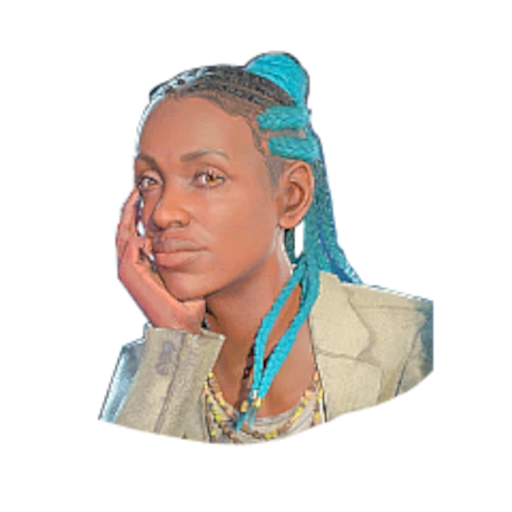
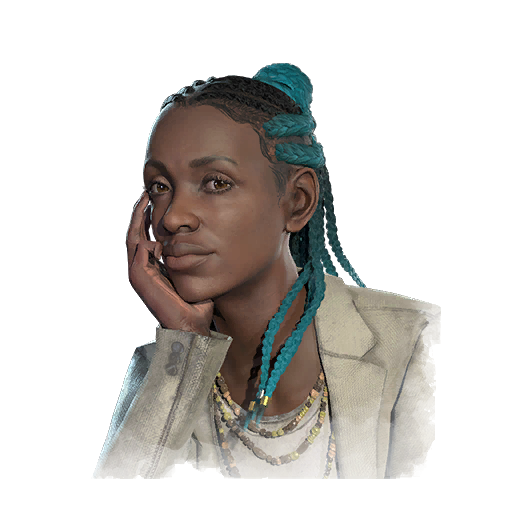
Added new Survivors
Rick Grimes
Michonne Grimes

Added 6 new Survivor Perks

Apocalyptic Ingenuity
Come And Get Me
Conviction
Last Stand
Teamwork: Throw Down
Teamwork: Toughen Up

Updated Image for Orela Rose to meet standards of other characters.

diff --git a/DBDRandomiser/SelectionWindow.xaml b/DBDRandomiser/SelectionWindow.xaml
@@ -3,7 +3,7 @@
         xmlns="http://schemas.microsoft.com/winfx/2006/xaml/presentation"
         xmlns:x="http://schemas.microsoft.com/winfx/2006/xaml"
         ResizeMode="NoResize"
-        Title="Select Survivors and Killers" Height="600" Width="1000" WindowStartupLocation="CenterOwner">
+        Title="Select Survivors and Killers" Height="650" Width="1010" WindowStartupLocation="CenterOwner">
     <Grid Margin="10">
         <Grid.ColumnDefinitions>
             <ColumnDefinition Width="*" />
@@ -15,9 +15,10 @@
             <ColumnDefinition Width="*" />
         </Grid.ColumnDefinitions>
         <Grid.RowDefinitions>
-            <RowDefinition Height="Auto"/>
-            <RowDefinition Height="*"/>
-            <RowDefinition Height="Auto"/>
+            <RowDefinition Height="20"/>
+            <RowDefinition Height="500"/>
+            <RowDefinition Height="35"/>
+            <RowDefinition Height="35"/>
         </Grid.RowDefinitions>
 
         <TextBlock Text="Survivors" FontWeight="Bold" Grid.Column="0" Grid.Row="0" Margin="0,0,0,5" />
@@ -30,7 +31,27 @@
         <ListBox x:Name="SurvivorPerksListBox" Grid.Column="4" Grid.Row="1" SelectionMode="Multiple" BorderThickness="2"/>
         <ListBox x:Name="KillerPerksListBox" Grid.Column="6" Grid.Row="1" SelectionMode="Multiple" BorderThickness="2"/>
 
-        <StackPanel Grid.Column="0" Grid.ColumnSpan="3" Grid.Row="2" Orientation="Horizontal" HorizontalAlignment="Right" Margin="0,10,0,0">
+        <StackPanel Grid.Column="0" Grid.Row="2" Orientation="Horizontal" HorizontalAlignment="Center" Margin="0,10,0,0">
+            <Button Content="Select All" Width="105" Margin="0,0,10,0" Click="SelectAllSurvivors_Click"/>
+            <Button Content="Remove All" Width="105" Click="RemoveAllSurvivors_Click"/>
+        </StackPanel>
+
+        <StackPanel Grid.Column="2" Grid.Row="2" Orientation="Horizontal" HorizontalAlignment="Center" Margin="0,10,0,0">
+            <Button Content="Select All" Width="105" Margin="0,0,10,0" Click="SelectAllKillers_Click"/>
+            <Button Content="Remove All" Width="105" Click="RemoveAllKillers_Click"/>
+        </StackPanel>
+
+        <StackPanel Grid.Column="4" Grid.Row="2" Orientation="Horizontal" HorizontalAlignment="Center" Margin="0,10,0,0">
+            <Button Content="Select All" Width="105" Margin="0,0,10,0" Click="SelectAllSurvivorPerks_Click"/>
+            <Button Content="Remove All" Width="105" Click="RemoveAllSurvivorPerks_Click"/>
+        </StackPanel>
+
+        <StackPanel Grid.Column="6" Grid.Row="2" Orientation="Horizontal" HorizontalAlignment="Center" Margin="0,10,0,0">
+            <Button Content="Select All" Width="105" Margin="0,0,10,0" Click="SelectAllKillerPerks_Click"/>
+            <Button Content="Remove All" Width="105" Click="RemoveAllKillerPerks_Click"/>
+        </StackPanel>
+
+        <StackPanel Grid.Column="0" Grid.ColumnSpan="7" Grid.Row="3" Orientation="Horizontal" HorizontalAlignment="Center" Margin="0,10,0,0">
             <Button Content="Save Selections" Width="130" Margin="0,0,10,0" Click="OkButton_Click"/>
             <Button Content="Cancel" Width="130" Click="CancelButton_Click"/>
         </StackPanel>

diff --git a/DBDRandomiser/MainWindow.xaml b/DBDRandomiser/MainWindow.xaml
@@ -54,10 +54,22 @@
         </Button>  
   
         <!-- Buttons (Placed at Bottom) -->  
-        <StackPanel Orientation="Horizontal" HorizontalAlignment="Center" VerticalAlignment="Bottom">  
-            <Button Content="Select Random Killer" Click="SelectKiller_Click" Width="200" Background="OrangeRed" Foreground="White" FontWeight="Bold"/>  
-            <Button Content="Reset" Click="ResetScreen_Click" Width="100" Background="#AAAAAA" Foreground="Black" FontWeight="Bold"/>  
-            <Button Content="Select Random Survivor" Click="SelectSurvivor_Click" Width="200" Background="CornflowerBlue" Foreground="White" FontWeight="Bold"/>  
+        <StackPanel Orientation="Horizontal" HorizontalAlignment="Center" VerticalAlignment="Bottom">
+            <Button Click="SelectKiller_Click" Width="200" Background="OrangeRed" Foreground="White" FontWeight="Bold" >
+                <StackPanel Orientation="Horizontal">
+                    <Image Source="/Icons/KillerIcon.png" Width="20" Height="20" ></Image>
+                    <TextBlock Padding="5,0,0,0" Height="20">Select Random Killer</TextBlock>
+                </StackPanel>
+            </Button>
+            <Button Click="ResetScreen_Click" Width="100" Background="#AAAAAA" Foreground="Black" FontWeight="Bold">
+                <TextBlock Padding="0,0,0,0" Height="20">Reset</TextBlock>
+            </Button>
+            <Button Click="SelectSurvivor_Click" Width="200" Background="CornflowerBlue" Foreground="White" FontWeight="Bold">
+                <StackPanel Orientation="Horizontal">
+                    <TextBlock Padding="0,0,5,0" Height="20">Select Random Survivor</TextBlock>
+                    <Image Source="/Icons/Survivor_Icon.png" Width="20" Height="20" ></Image>
+                </StackPanel>
+            </Button>  
         </StackPanel>  
     </Grid>  
 </Window>

diff --git a/DBDRandomiser/SelectionWindow.xaml.cs b/DBDRandomiser/SelectionWindow.xaml.cs
@@ -11,11 +11,18 @@ namespace DBDRandomiser
         public List<string> selectedSurvivorPerks { get; private set; }
         public List<string> selectedKillerPerks { get; private set; }
 
-        public SelectionWindow(List<string> allSurvivors, List<string> allKillers, List<string>? selectedSurvivors = null, List<string>? selectedKillers = null,
-                               List<string>? allSurvivorPerks = null, List<string>? allKillerPerks = null, List<string>? selectedSurvivorPerks = null, 
-                               List<string>? selectedKillerPerks = null)
+        public SelectionWindow(
+            List<string> allSurvivors, List<string> allKillers,
+            List<string>? selectedSurvivors = null, List<string>? selectedKillers = null,
+            List<string>? allSurvivorPerks = null, List<string>? allKillerPerks = null,
+            List<string>? selectedSurvivorPerks = null, List<string>? selectedKillerPerks = null)
         {
             InitializeComponent();
+
+            selectedSurvivors = selectedSurvivors ?? new List<string>();
+            selectedKillers = selectedKillers ?? new List<string>();
+            selectedSurvivorPerks = selectedSurvivorPerks ?? new List<string>();
+            selectedKillerPerks = selectedKillerPerks ?? new List<string>();
 
             SurvivorsListBox.ItemsSource = allSurvivors;
             KillersListBox.ItemsSource = allKillers;
@@ -23,21 +30,52 @@ namespace DBDRandomiser
             KillerPerksListBox.ItemsSource = allKillerPerks ?? new List<string>();
 
             // Select previously selected items, or all if none provided
-            if (selectedSurvivors != null && selectedSurvivors.Count > 0)
+            if (selectedSurvivors.Count > 0)
                 foreach (var s in selectedSurvivors) SurvivorsListBox.SelectedItems.Add(s);
             else SurvivorsListBox.SelectAll();
 
-            if (selectedKillers != null && selectedKillers.Count > 0)
+            if (selectedKillers.Count > 0)
                 foreach (var k in selectedKillers) KillersListBox.SelectedItems.Add(k);
             else KillersListBox.SelectAll();
 
-            if (selectedSurvivorPerks != null && selectedSurvivorPerks.Count > 0)
+            if (selectedSurvivorPerks.Count > 0)
                 foreach (var p in selectedSurvivorPerks) SurvivorPerksListBox.SelectedItems.Add(p);
             else SurvivorPerksListBox.SelectAll();
 
-            if (selectedKillerPerks != null && selectedKillerPerks.Count > 0)
+            if (selectedKillerPerks.Count > 0)
                 foreach (var p in selectedKillerPerks) KillerPerksListBox.SelectedItems.Add(p);
             else KillerPerksListBox.SelectAll();
+        }
+
+        private void Grid_Items_Mass_Selection(string selectionType)
+        {
+            switch (selectionType)
+            {
+                case "SelectSurvivors":
+                    SurvivorsListBox.SelectAll();
+                    break;
+                case "UnselectSurvivors":
+                    SurvivorsListBox.UnselectAll();
+                    break;
+                case "SelectKillers":
+                    KillersListBox.SelectAll();
+                    break;
+                case "UnselectKillers":
+                    KillersListBox.UnselectAll();
+                    break;
+                case "SelectSurvivorPerks":
+                    SurvivorPerksListBox.SelectAll();
+                    break;
+                case "UnselectSurvivorPerks":
+                    SurvivorPerksListBox.UnselectAll();
+                    break;
+                case "SelectKillerPerks":
+                    KillerPerksListBox.SelectAll();
+                    break;
+                case "UnselectKillerPerks":
+                    KillerPerksListBox.UnselectAll();
+                    break;
+            }
         }
 
         private void OkButton_Click(object sender, RoutedEventArgs e)
@@ -61,10 +99,51 @@ namespace DBDRandomiser
             DialogResult = true;
             Close();
         }
+
         private void CancelButton_Click(object sender, RoutedEventArgs e)
         {
             this.DialogResult = false;
             this.Close();
+        }
+
+        private void SelectAllSurvivors_Click(object sender, RoutedEventArgs e)
+        {
+            Grid_Items_Mass_Selection("SelectSurvivors");
+        }
+
+        private void RemoveAllSurvivors_Click(object sender, RoutedEventArgs e)
+        {
+            Grid_Items_Mass_Selection("UnselectSurvivors");
+        }
+
+        private void SelectAllKillers_Click(object sender, RoutedEventArgs e)
+        {
+            Grid_Items_Mass_Selection("SelectKillers");
+        }
+
+        private void RemoveAllKillers_Click(object sender, RoutedEventArgs e)
+        {
+            Grid_Items_Mass_Selection("UnselectKillers");
+        }
+
+        private void SelectAllSurvivorPerks_Click(object sender, RoutedEventArgs e)
+        {
+            Grid_Items_Mass_Selection("SelectSurvivorPerks");
+        }
+
+        private void RemoveAllSurvivorPerks_Click(object sender, RoutedEventArgs e)
+        {
+            Grid_Items_Mass_Selection("UnselectSurvivorPerks");
+        }
+
+        private void SelectAllKillerPerks_Click(object sender, RoutedEventArgs e)
+        {
+            Grid_Items_Mass_Selection("SelectKillerPerks");
+        }
+
+        private void RemoveAllKillerPerks_Click(object sender, RoutedEventArgs e)
+        {
+            Grid_Items_Mass_Selection("UnselectKillerPerks");
         }
     }
 }

diff --git a/DBDRandomiser/MainWindow.xaml.cs b/DBDRandomiser/MainWindow.xaml.cs
@@ -113,7 +113,7 @@ namespace DBDRandomiser
             CharacterImage.Visibility = Visibility.Visible;
 
             // Trigger the FadeInStoryboard for each element
-            Storyboard fadeInStoryboard = this.Resources["FadeInStoryboard"] as Storyboard;
+            Storyboard? fadeInStoryboard = this.Resources["FadeInStoryboard"] as Storyboard;
 
             if (fadeInStoryboard != null)
             {
@@ -182,8 +182,11 @@ namespace DBDRandomiser
 
             if (IncludePerksCheckBox.IsChecked == true)
             {
-                // Shuffle the perk list and pick the first four unique perks
-                List<string> shuffledPerks = killerPerks.OrderBy(x => rand.Next()).Distinct().ToList();
+                // Use active killer perks if available, otherwise use the default killer perks
+                List<string> killerPerkPool = (activeKillerPerks != null && activeKillerPerks.Count > 0)
+                    ? activeKillerPerks
+                    : killerPerks.ToList();
+                List<string> shuffledPerks = killerPerkPool.OrderBy(x => rand.Next()).Distinct().ToList();
                 string[] selectedPerks = shuffledPerks.Take(4).ToArray();
 
                 // Initialize the index and timer
@@ -212,7 +215,7 @@ namespace DBDRandomiser
                     };
 
                     // Add the perk image
-                    if (killerPerkImages.TryGetValue(perk, out string perkImageUri))
+                    if (killerPerkImages.TryGetValue(perk, out var perkImageUri) && perkImageUri != null)
                     {
                         try
                         {
@@ -228,7 +231,6 @@ namespace DBDRandomiser
                         {
                             MessageBox.Show($"Error loading image for perk '{perk}': {ex.Message}");
                         }
-
                     }
 
                     // Add the perk text
@@ -281,8 +283,8 @@ namespace DBDRandomiser
             CharacterImage.Visibility = Visibility.Visible;
 
             // Trigger the FadeInStoryboard for each element
-            Storyboard fadeInStoryboard = this.Resources["FadeInStoryboard"] as Storyboard;
-            Storyboard fadeOutStoryboard = this.Resources["FadeOutStoryboard"] as Storyboard;
+            Storyboard? fadeInStoryboard = this.Resources["FadeInStoryboard"] as Storyboard;
+            Storyboard? fadeOutStoryboard = this.Resources["FadeOutStoryboard"] as Storyboard;
 
             if (fadeInStoryboard != null)
             {
@@ -299,7 +301,7 @@ namespace DBDRandomiser
                 {
                     background_image2.Opacity = 0;
                 }
-                else
+                else if (fadeOutStoryboard != null)
                 {
                     Storyboard.SetTarget(fadeOutStoryboard, background_image2);
                     fadeOutStoryboard.Begin();
@@ -352,8 +354,11 @@ namespace DBDRandomiser
 
             if (IncludePerksCheckBox.IsChecked == true)
             {
-                // Shuffle the perk list and pick the first four unique perks
-                List<string> shuffledPerks = survivorPerks.OrderBy(x => rand.Next()).Distinct().ToList();
+                // Use active survivor perks if available, otherwise use the default survivor perks
+                List<string> survivorPerkPool = (activeSurvivorPerks != null && activeSurvivorPerks.Count > 0)
+                    ? activeSurvivorPerks
+                    : survivorPerks.ToList();
+                List<string> shuffledPerks = survivorPerkPool.OrderBy(x => rand.Next()).Distinct().ToList();
                 string[] selectedPerks = shuffledPerks.Take(4).ToArray();
 
                 // Initialize the index and timer
@@ -382,7 +387,7 @@ namespace DBDRandomiser
                     };
 
                     // Add the perk image
-                    if (survivorPerkImages.TryGetValue(perk, out string perkImageUri))
+                    if (survivorPerkImages.TryGetValue(perk, out var perkImageUri) && perkImageUri != null)
                     {
                         try
                         {
@@ -398,7 +403,6 @@ namespace DBDRandomiser
                         {
                             MessageBox.Show($"Error loading image for perk '{perk}': {ex.Message}");
                         }
-
                     }
 
                     // Add the perk text
@@ -434,7 +438,7 @@ namespace DBDRandomiser
         private void ResetScreen_Click(object sender, RoutedEventArgs e)
         {
             // Retrieve the fade-out Storyboard from resources
-            Storyboard fadeOutStoryboard = this.Resources["FadeOutStoryboard"] as Storyboard;
+            Storyboard? fadeOutStoryboard = this.Resources["FadeOutStoryboard"] as Storyboard;
 
             if (fadeOutStoryboard != null)
             {

diff --git a/DBDRandomiser/PerkImages.cs b/DBDRandomiser/PerkImages.cs
@@ -155,6 +155,7 @@ namespace DBDRandomiser
             {"Aftercare",                                                   "pack://application:,,,/perk_images/survivor_perks/Aftercare.png"},
             {"Alert",                                                       "pack://application:,,,/perk_images/survivor_perks/Alert.png"},
             {"Any Means Necessary",                                         "pack://application:,,,/perk_images/survivor_perks/Any_Means_Necessary.png"},
+            {"Apocalyptic Ingenuity",                                         "pack://application:,,,/perk_images/survivor_perks/Apocalyptic_Ingenuity.png"},
             {"Appraisal",                                                   "pack://application:,,,/perk_images/survivor_perks/Appraisal.png"},
             {"Autodidact",                                                  "pack://application:,,,/perk_images/survivor_perks/Autodidact.png"},
             {"Babysitter",                                                  "pack://application:,,,/perk_images/survivor_perks/Babysitter.png"},
@@ -186,6 +187,8 @@ namespace DBDRandomiser
             {"Chemical Trap",                                               "pack://application:,,,/perk_images/survivor_perks/Chemical_Trap.png"},
             {"Clairvoyance",                                                "pack://application:,,,/perk_images/survivor_perks/Clairvoyance.png"},
             {"Clean Break",                                                 "pack://application:,,,/perk_images/survivor_perks/Clean_Break.png"},
+            {"Come And Get Me",                                             "pack://application:,,,/perk_images/survivor_perks/Come_And_Get_Me.png"},
+            {"Conviction",                                                  "pack://application:,,,/perk_images/survivor_perks/Conviction.png"},
             {"Corrective Action",                                           "pack://application:,,,/perk_images/survivor_perks/Corrective_Action.png"},
             {"Counterforce",                                                "pack://application:,,,/perk_images/survivor_perks/Counterforce.png"},
             {"Cut Loose",                                                   "pack://application:,,,/perk_images/survivor_perks/Cut_Loose.png"},
@@ -226,6 +229,7 @@ namespace DBDRandomiser
             {"Invocation: Weaving Spiders",                                 "pack://application:,,,/perk_images/survivor_perks/Invocation_Weaving_Spiders.png"},
             {"Iron Will",                                                   "pack://application:,,,/perk_images/survivor_perks/Iron_Will.png"},
             {"Kindred",                                                     "pack://application:,,,/perk_images/survivor_perks/Kindred.png"},
+            {"Last Stand",                                                  "pack://application:,,,/perk_images/survivor_perks/Last_Stand.png"},
             {"Leader",                                                      "pack://application:,,,/perk_images/survivor_perks/Leader.png"},
             {"Left Behind",                                                 "pack://application:,,,/perk_images/survivor_perks/Left_Behind.png"},
             {"Light-Footed",                                                "pack://application:,,,/perk_images/survivor_perks/Light-Footed.png"},
@@ -287,6 +291,8 @@ namespace DBDRandomiser
             {"Strength in Shadows",                                         "pack://application:,,,/perk_images/survivor_perks/Strength_in_Shadows.png"},
             {"Teamwork: Collective Stealth",                                "pack://application:,,,/perk_images/survivor_perks/Teamwork_Collective_Stealth.png"},
             {"Teamwork: Power of Two",                                      "pack://application:,,,/perk_images/survivor_perks/Teamwork_Power_of_Two.png"},
+            {"Teamwork: Throw Down",                                        "pack://application:,,,/perk_images/survivor_perks/Teamwork_Throw_Down.png"},
+            {"Teamwork: Toughen Up",                                      "pack://application:,,,/perk_images/survivor_perks/Teamwork_Toughen_Up.png"},
             {"Technician",                                                  "pack://application:,,,/perk_images/survivor_perks/Technician.png"},
             {"Tenacity",                                                    "pack://application:,,,/perk_images/survivor_perks/Tenacity.png"},
             {"This Is Not Happening",                                       "pack://application:,,,/perk_images/survivor_perks/This_Is_Not_Happening.png"},

diff --git a/DBDRandomiser/SurvivorPerks.cs b/DBDRandomiser/SurvivorPerks.cs
@@ -9,21 +9,21 @@ namespace DBDRandomiser
     public static class SurvivorPerks
     {
         public static readonly string[] List = [
-            "Ace in the Hole","Adrenaline","Aftercare","Alert","Any Means Necessary","Appraisal","Autodidact","Babysitter","Background Player","Balanced Landing",
+            "Ace in the Hole","Adrenaline","Aftercare","Alert","Any Means Necessary","Apocalyptic Ingenuity","Appraisal","Autodidact","Babysitter","Background Player","Balanced Landing",
             "Bardic Inspiration","Better than New","Better Together","Bite the Bullet","Blast Mine","Blood Pact","Blood Rush","Boil Over","Bond","Boon: Circle of Healing",
             "Boon: Dark Theory","Boon: Exponential","Boon: Illumination","Boon: Shadow Step","Borrowed Time","Botany Knowledge","Breakdown","Breakout","Buckle Up",
-            "Built to Last","Calm Spirit","Camaraderie","Champion of Light","Chemical Trap","Clairvoyance","Clean Break","Corrective Action","Counterforce","Cut Loose",
-            "Déjà Vu","Dance With Me","Dark Sense","Dead Hard","Deadline","Deception","Decisive Strike","Deliverance","Desperate Measures","Detective's Hunch","Distortion",
+            "Built to Last","Calm Spirit","Camaraderie","Champion of Light","Chemical Trap","Clairvoyance","Clean Break","Come And Get Me","Conviction","Corrective Action","Counterforce",
+            "Cut Loose","Déjà Vu","Dance With Me","Dark Sense","Dead Hard","Deadline","Deception","Decisive Strike","Deliverance","Desperate Measures","Detective's Hunch","Distortion",
             "Diversion","Do No Harm","Dramaturgy","Duty of Care","Empathic Connection","Empathy","Exultation","Eyes of Belmont","Fast Track","Finesse","Fixated","Flashbang",
             "Flip-Flop","Fogwise","For the People","Friendly Competition","Hardened","Head On","Hope","Hyperfocus","Inner Focus","Inner Strength",
-            "Invocation: Treacherous Crows","Invocation: Weaving Spiders","Iron Will","Kindred","Leader","Left Behind","Light-Footed","Lightweight","Lithe","Low Profile",
+            "Invocation: Treacherous Crows","Invocation: Weaving Spiders","Iron Will","Kindred","Last Stand","Leader","Left Behind","Light-Footed","Lightweight","Lithe","Low Profile",
             "Lucky Break","Lucky Star","Made for This","Mettle of Man","Mirrored Illusion","Moment of Glory","No Mither","No One Left Behind","Object of Obsession",
             "Off the Record","Open-Handed","Overcome","Overzealous","Parental Guidance","Pharmacy","Plot Twist","Plunderer's Instinct","Poised","Potential Energy",
             "Power Struggle","Premonition","Prove Thyself","Quick & Quiet","Quick Gambit","Rapid Response","Reactive Healing","Reassurance","Red Herring",
             "Repressed Alliance","Residual Manifest","Resilience","Resurgence","Rookie Spirit","Saboteur","Scavenger","Scene Partner","Second Wind","Self-Care",
             "Self-Preservation","Shoulder the Burden","Slippery Meat","Small Game","Smash Hit","Sole Survivor","Solidarity","Soul Guard","Specialist","Spine Chill",
-            "Sprint Burst","Stake Out","Still Sight","Streetwise","Strength in Shadows","Teamwork: Collective Stealth","Teamwork: Power of Two","Technician","Tenacity",
-            "This Is Not Happening","Troubleshooter","Unbreakable","Up the Ante","Urban Evasion","Vigil","Visionary","Wake Up!","We'll Make It","We're Gonna Live Forever",
+            "Sprint Burst","Stake Out","Still Sight","Streetwise","Strength in Shadows","Teamwork: Collective Stealth","Teamwork: Power of Two","Teamwork: Throw Down","Teamwork: Toughen Up",
+            "Technician","Tenacity","This Is Not Happening","Troubleshooter","Unbreakable","Up the Ante","Urban Evasion","Vigil","Visionary","Wake Up!","We'll Make It","We're Gonna Live Forever",
             "Wicked","Windows of Opportunity","Wiretap"
         ];
     }

diff --git a/DBDRandomiser/Survivors.cs b/DBDRandomiser/Survivors.cs
@@ -13,7 +13,7 @@ namespace DBDRandomiser
             "Quentin Smith","David Tapp","Kate Denson","Adam Francis","Jeff Johansen","Jane Romero","Ash Williams","Nancy Wheeler","Steve Harrington","Yui Kimura",
             "Zarina Kassir","Cheryl Mason","Felix Richter","Élodie Rakoto","Yun-Jin Lee","Jill Valentine","Leon Scott Kennedy","Mikaela Reid","Jonah Vasquez",
             "Yoichi Asakawa","Haddie Kaur","Ada Wong","Rebecca Chambers","Vittorio Toscano","Thalita Lyra","Renato Lyra","Gabriel Soma","Nicolas Cage","Ellen Ripley",
-            "Alan Wake","Sable Ward","Aestri Yazar & Baermar Uraz","Lara Croft","Trevor Belmont","Taurie Cain", "Orela Rose"
+            "Alan Wake","Sable Ward","Aestri Yazar & Baermar Uraz","Lara Croft","Trevor Belmont","Taurie Cain", "Orela Rose", "Rick Grimes" , "Michonne Grimes"
         ];                             
     }
 }
